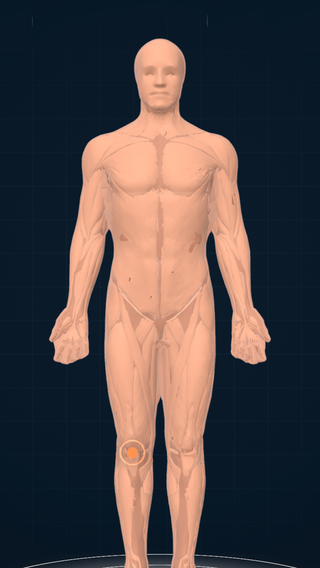
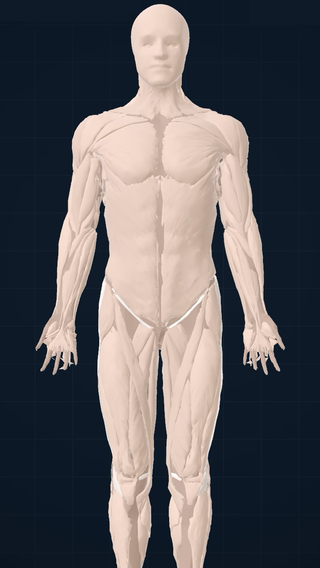
Doberg: use the current Blith muscle figure in the body-notes demo
Claude-Session: https://claude.ai/code/session_01AkAuqDzDW3ukTT2ccywdb4

diff --git a/doberg/demos.css b/doberg/demos.css
@@ -69,7 +69,7 @@
 .bl .ex{background:rgba(94,196,192,.14);color:#8ED8D4}
 .bl .body{position:absolute;left:0;right:0;top:56px}
 .bl .body img{display:block;width:100%;height:auto}
-.bl .ring{position:absolute;left:41.4%;top:79%;width:34px;height:34px;margin:-17px 0 0 -17px;border-radius:50%;border:2px solid #fff;animation:tap 8s var(--ease) infinite both}
+.bl .ring{position:absolute;left:39%;top:85%;width:34px;height:34px;margin:-17px 0 0 -17px;border-radius:50%;border:2px solid #fff;animation:tap 8s var(--ease) infinite both}
 .bl .note{position:absolute;left:10px;right:10px;bottom:10px;padding:14px;border-radius:22px;background:rgba(22,27,26,.92);box-shadow:0 -6px 24px rgba(0,0,0,.35),inset 0 1px 0 rgba(255,255,255,.06)}
 .bl .note .k{font:500 10px/1 'IBM Plex Mono',monospace;letter-spacing:.12em;text-transform:uppercase;color:#7E8883}
 .bl .note h4{margin:6px 0 2px;font-size:17px}
